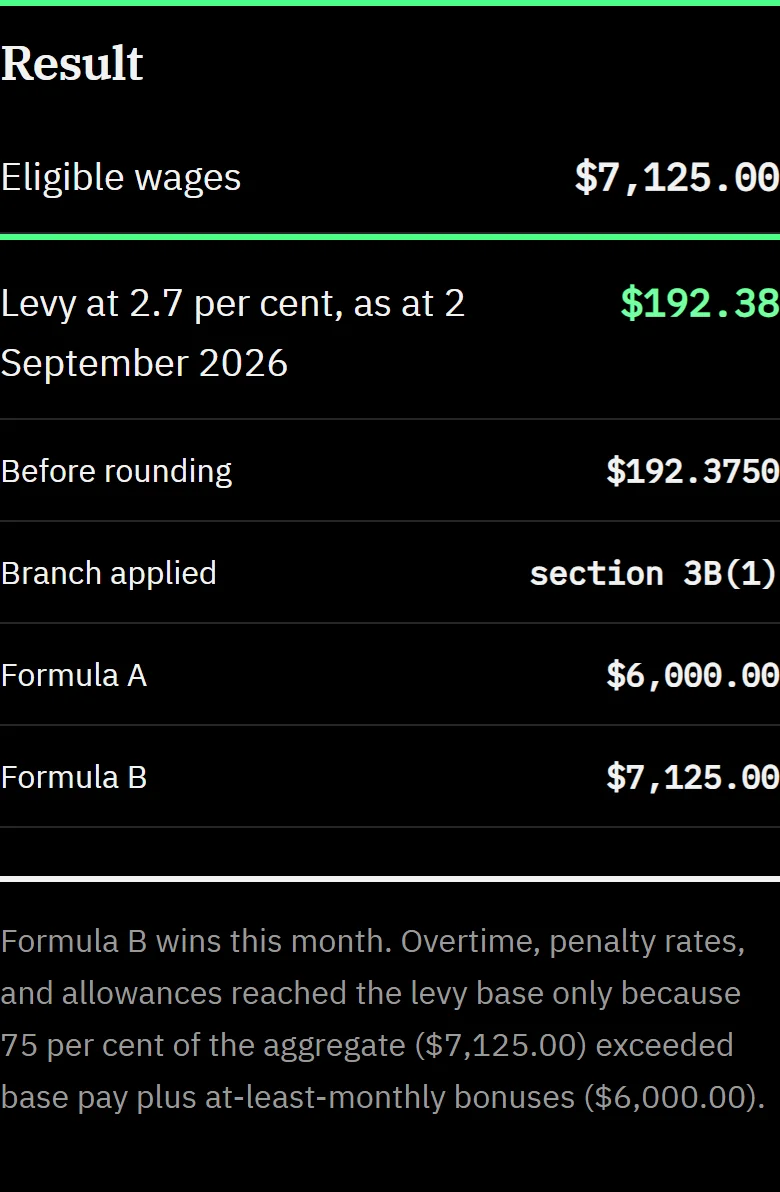
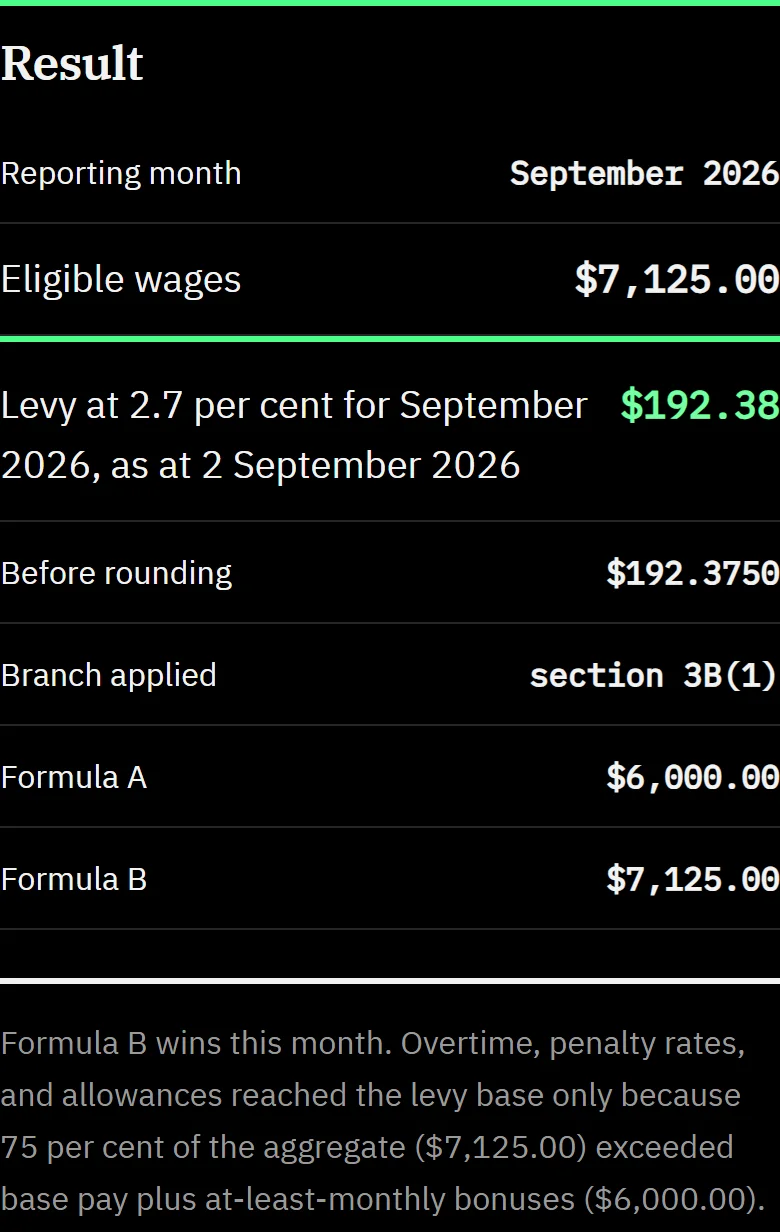
Align the browser suite with the Coal LSL reporting-month contract
The reporting-month row made the mobile proof panel outgrow its fixed
capture height, so the mobile capture grows to 616 CSS px and both
proof images and the three visual baselines are regenerated. The
calculator spec now covers the shared month field: required on every
branch, prefilled with the current month, refused at the field for
months before July 2023, and the boundary month July 2023 pricing at
$270.00. The CSV, table, ledger and print assertions carry the new
reporting-month column and row, and the review-route copy keeps the
spelled-out address while dropping the obsolete obfuscation claim. The
supported-period sentence moves out of the page lead and rate summary
into the field help, disclaimer and FAQ so the synthetic-example action
stays inside the first mobile viewport.

diff --git a/evaluate/index.html b/evaluate/index.html
@@ -88,7 +88,7 @@
               <li>Restore 0, save a copy, reopen it, and confirm the base figures return.</li>
               <li>List each step that was unclear, each output you misread, and what you would need before a controlled trial in a workplace.</li>
             </ol>
-            <p><a href="/assets/examples/lumbridge/trial-response-template.txt" download>Download the blank response template</a> (plain text), fill it in, and email it to <a href="mailto:ryan@duguid.com.au?subject=Lumbridge%20review">ryan@duguid.com.au</a> with the subject "Lumbridge review". The template asks which workbook you used and what you had already seen of the case, your environment, the scenario and any input changes, expected against observed results, whether you finished without help, defects, and your permission preferences for any later quotation. The longer 8-step guide, <code>TRIAL.md</code>, is inside the sample pack. The address ryan@duguid.com.au is shown as text and needs no scripts: if an email link does not open your email app, copy it. Do not include client records, taxpayer identifiers, credentials or confidential files.</p>
+            <p><a href="/assets/examples/lumbridge/trial-response-template.txt" download>Download the blank response template</a> (plain text), fill it in, and email it to <a href="mailto:ryan@duguid.com.au?subject=Lumbridge%20review">ryan@duguid.com.au</a> with the subject "Lumbridge review". The template asks which workbook you used and what you had already seen of the case, your environment, the scenario and any input changes, expected against observed results, whether you finished without help, defects, and your permission preferences for any later quotation. The longer 8-step guide, <code>TRIAL.md</code>, is inside the sample pack. The address ryan@duguid.com.au is shown as text and needs no scripts; delivery can rewrite email links, so if one does not work, write to ryan at duguid dot com dot au. Do not include client records, taxpayer identifiers, credentials or confidential files.</p>
             <p>Use the synthetic files only. Do not send client records, credentials, or confidential files. Nothing you send is published or quoted without the permission you state in the template; an unselected or contradictory choice is read as no permission. A completed reproduction records whether the workbook and instructions work for someone else. It is not evidence of unaided interpretation and no client outcome is claimed. External evaluation of this case is pending; this page reports no completed trial.</p>
           </section>
       </div>

diff --git a/tools/coal-lsl-levy/index.html b/tools/coal-lsl-levy/index.html
@@ -58,11 +58,11 @@
       </ol>
     </nav>
     <h1>Coal LSL levy calculator and section 3B eligible wages</h1>
-    <p class="short-answer">Checked 2 September 2026: the coal mining long service leave (Coal LSL) levy is 2.7% of monthly eligible wages. The 2.7% rate applies to eligible wages paid on or after 1 July 2023; the calculator refuses earlier reporting months. Section 3B has separate base-rate, annual-salary and casual branches. The base-rate branch uses the greater of Formula A and Formula B.</p>
+    <p class="short-answer">Checked 2 September 2026: the coal mining long service leave (Coal LSL) levy is 2.7% of monthly eligible wages. Section 3B has separate base-rate, annual-salary and casual branches. The base-rate branch uses the greater of Formula A and Formula B.</p>
     <dl class="calculator-method" aria-label="Calculation method and boundary">
       <div>
         <dt>Rate</dt>
-        <dd>2.7% of eligible wages, paid monthly, checked 2 September 2026. Applies to eligible wages paid on or after 1 July 2023</dd>
+        <dd>2.7% of eligible wages, paid monthly, checked 2 September 2026</dd>
       </div>
       <div>
         <dt>Method</dt>

diff --git a/index.html b/index.html
@@ -146,7 +146,7 @@
           <summary>View the fixed calculator example</summary>
           <figure>
             <picture>
-              <source media="(max-width: 40rem)" srcset="/assets/coal-lsl-calculator-mobile.webp" width="780" height="1192" />
+              <source media="(max-width: 40rem)" srcset="/assets/coal-lsl-calculator-mobile.webp" width="780" height="1232" />
               <img src="/assets/coal-lsl-calculator.webp" width="868" height="580" loading="lazy" decoding="async" alt="Coal LSL calculator result showing Formula B, eligible wages, levy and the applied section 3B branch for a synthetic example" />
             </picture>
             <figcaption>Default synthetic example: $6,000 base pay, $3,000 overtime and penalty, $500 allowances. This screenshot stays fixed when you edit the figures above.</figcaption>

diff --git a/scripts/test_contracts.py b/scripts/test_contracts.py
@@ -130,10 +130,8 @@ def test_geo_leftovers_surface() -> None:
     coal_title = "Coal LSL levy calculator and section 3B eligible wages"
     coal_lead = (
         "Checked 2 September 2026: the coal mining long service leave (Coal LSL) levy is "
-        "2.7% of monthly eligible wages. The 2.7% rate applies to eligible wages paid on "
-        "or after 1 July 2023; the calculator refuses earlier reporting months. "
-        "Section 3B has separate base-rate, annual-salary and casual branches. "
-        "The base-rate branch uses the greater of Formula A and Formula B."
+        "2.7% of monthly eligible wages. Section 3B has separate base-rate, annual-salary "
+        "and casual branches. The base-rate branch uses the greater of Formula A and Formula B."
     )
 
     home = read_text(ROOT, "index.html")
